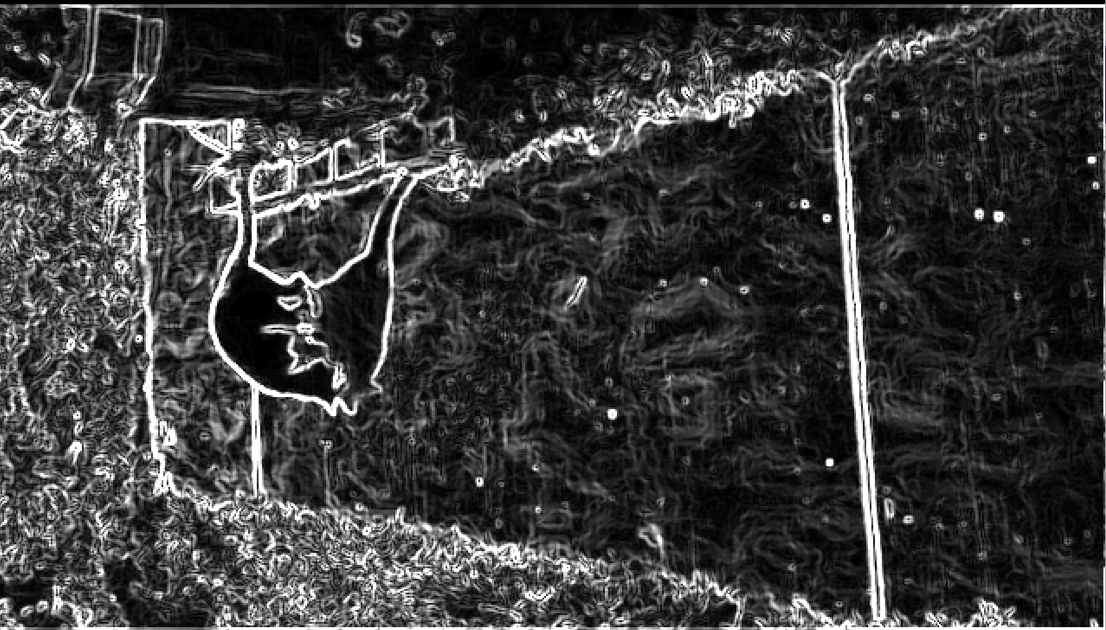
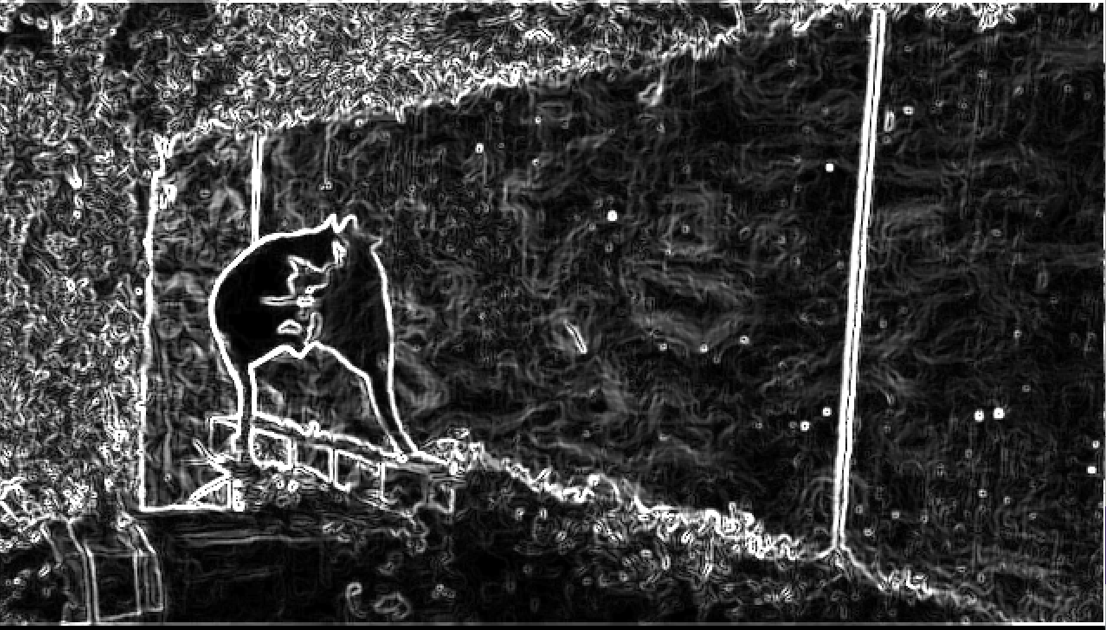
MIPS: flipped Sobel output as main image, add pipeline control diagram

diff --git a/src/data/projects.ts b/src/data/projects.ts
@@ -74,7 +74,7 @@ export const projects: Project[] = [
     id: "mips-pipelined-processor",
     tag: "ARCH·01",
     title: "5-Stage Pipelined MIPS Processor",
-    image: asset("mips-pipeline-thumb.svg"),
+    image: asset("mips-sobel-output.png"),
     date: "Jan. — Mar. 2026",
     course: "Stanford University | EE180, Digital Systems Architecture",
     skills: ["SystemVerilog", "FPGA", "Xilinx Vivado", "Pipelining", "Hazard Resolution", "MIPS"],
@@ -87,9 +87,10 @@ export const projects: Project[] = [
       { value: "40+", label: "instructions" },
     ],
     detailImages: [
+      { src: asset("mips-sobel-output.png"), alt: "Sobel edge-detection output", ratio: 1106 / 630, fit: "contain", caption: "Output of the Sobel edge-detection workload." },
       { src: asset("mips-reference-datapath.png"), alt: "Reference single-cycle MIPS datapath", ratio: 1320 / 765, fit: "contain", caption: "Reference single-cycle MIPS datapath from course lecture slides. The pipelined design splits this into five stages and adds forwarding and hazard control." },
       { src: asset("mips-pipeline-diagram.svg"), alt: "5-stage MIPS pipeline with forwarding", ratio: 720 / 300, fit: "contain", caption: "Pipeline stages and forwarding paths (schematic)." },
-      { src: asset("mips-sobel-output.png"), alt: "Sobel edge-detection output", ratio: 1106 / 630, fit: "contain", caption: "Output of the Sobel edge-detection workload." },
+      { src: asset("mips-pipeline-control.jpeg"), alt: "Control signals propagating through the pipeline registers", ratio: 1610 / 788, fit: "contain", caption: "Control signals propagating through the pipeline registers (IF/ID, ID/EX, EX/MEM, MEM/WB)." },
     ],
   },
   {
